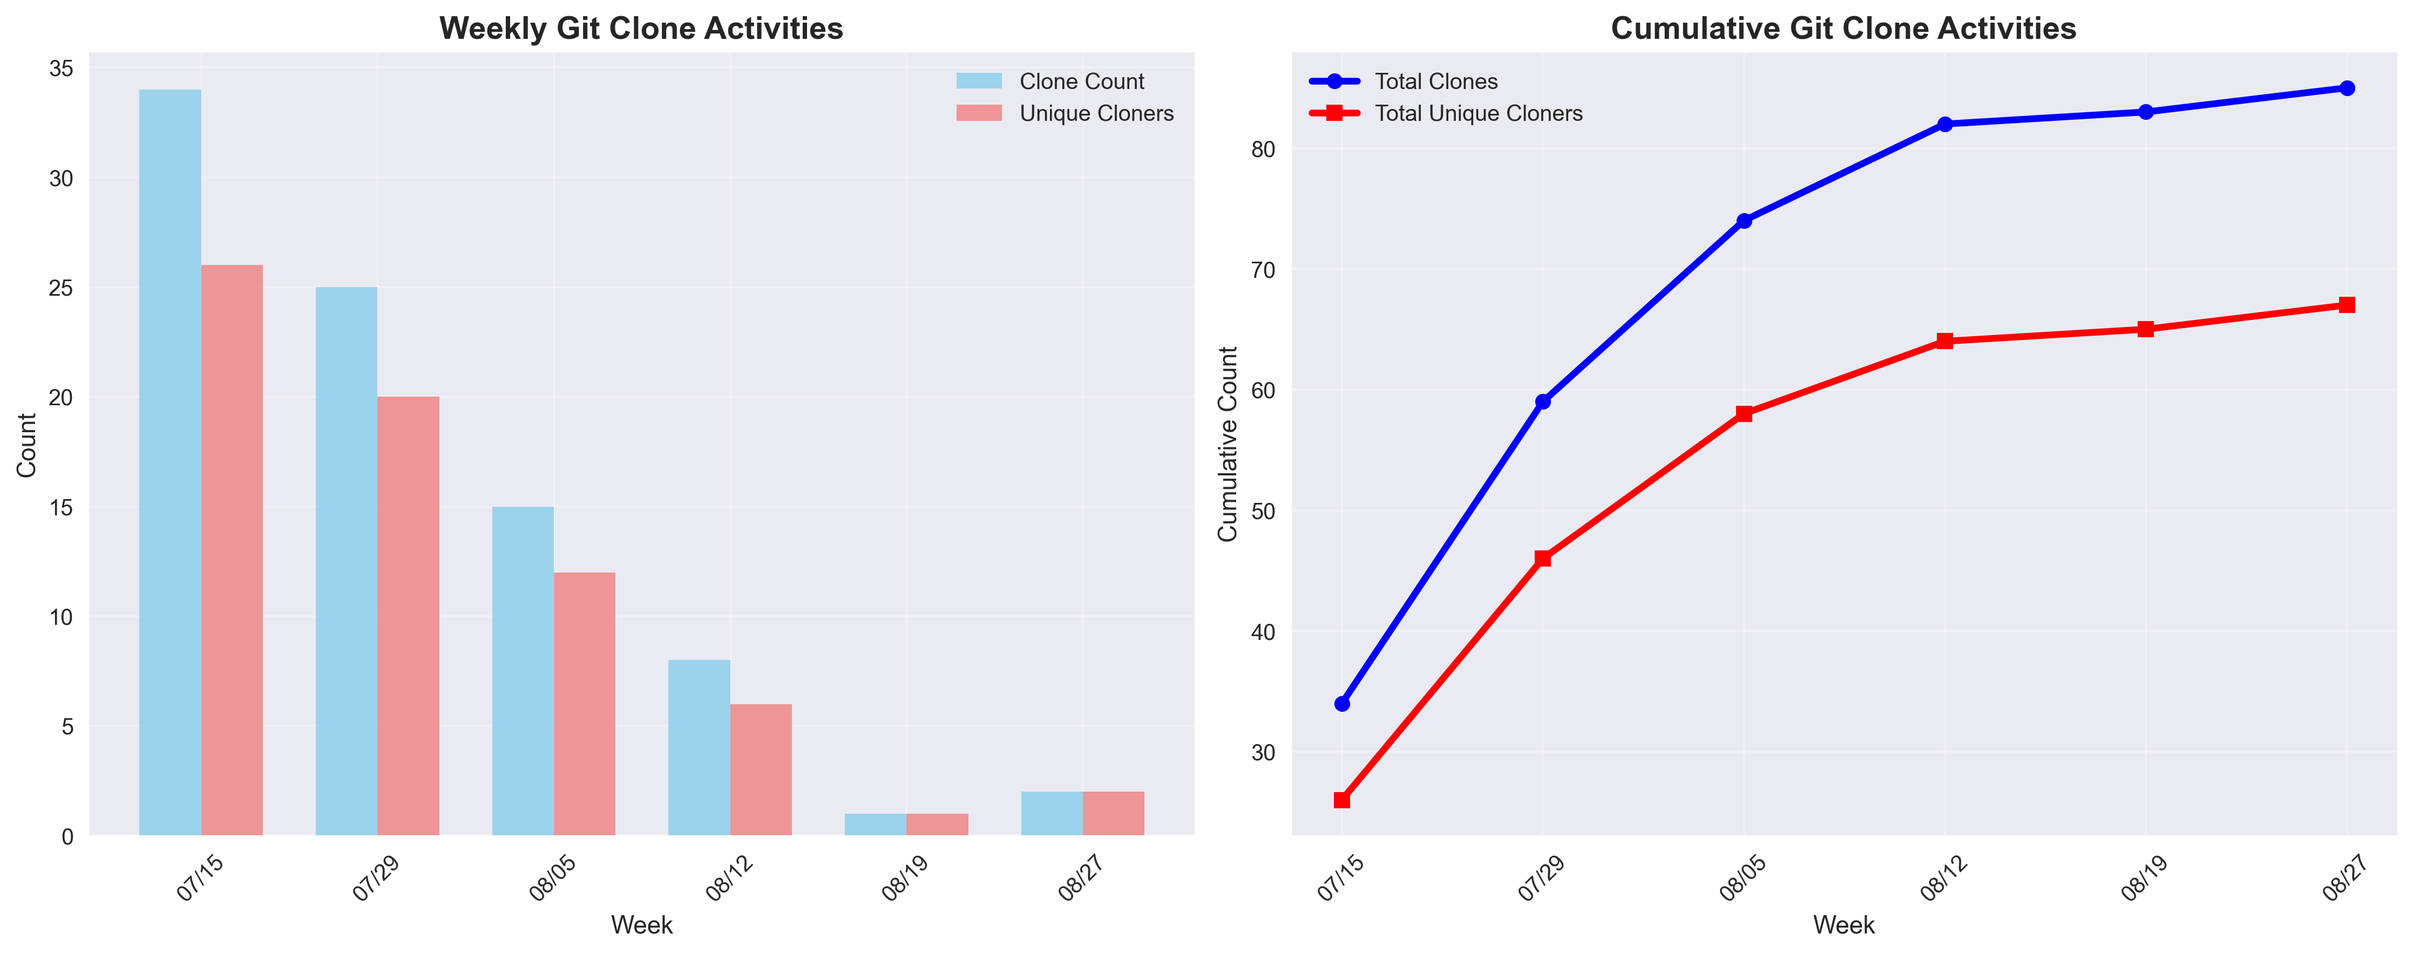
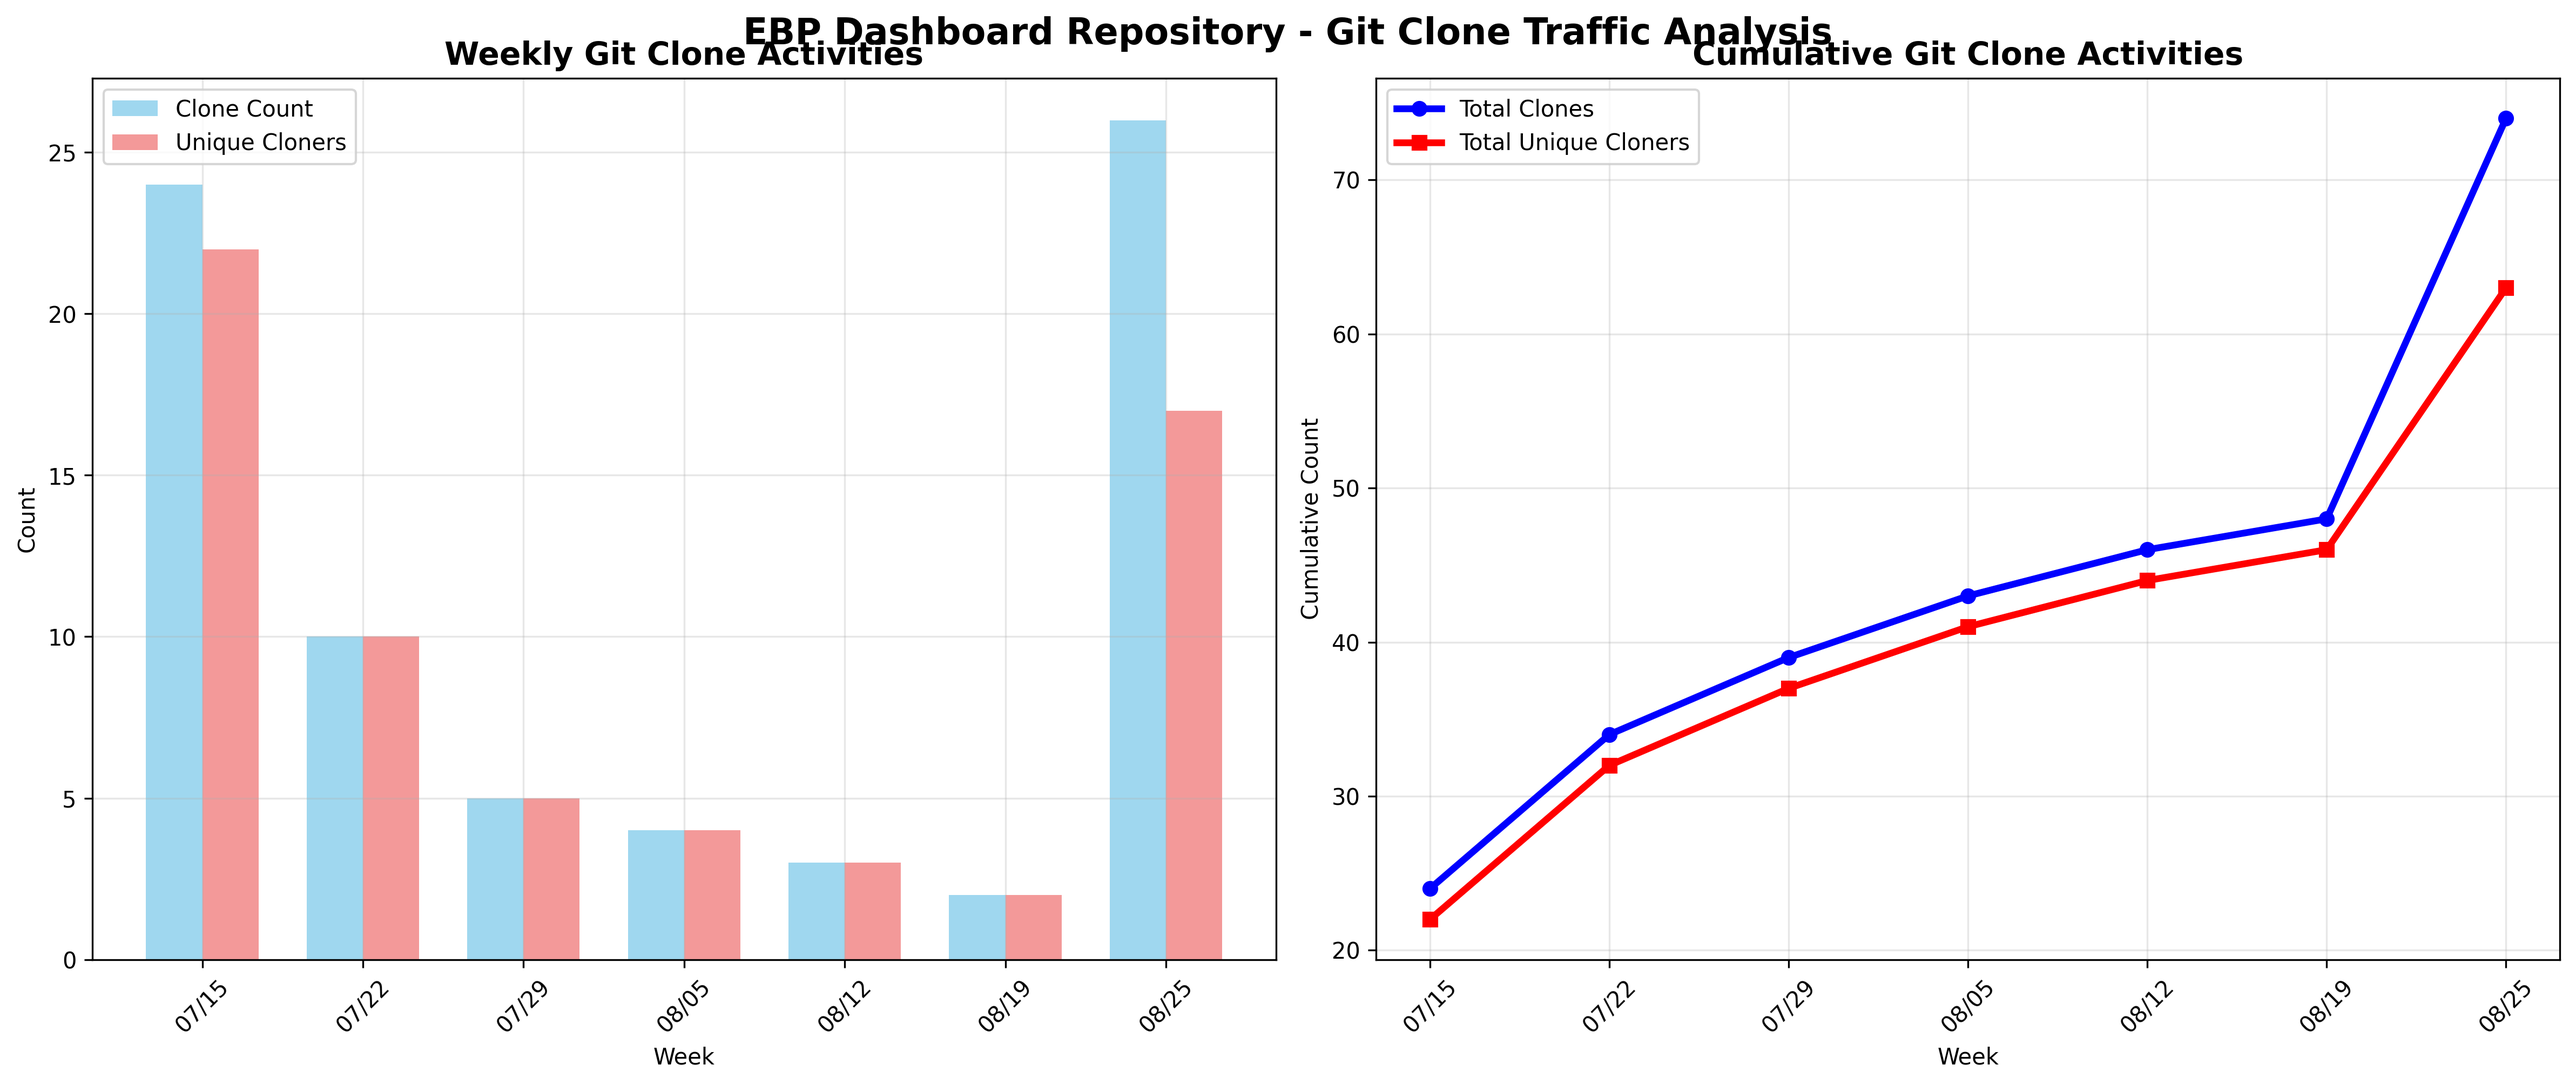
Fix traffic data collection timing and update data accuracy
- Change automation from Sunday 2AM to Monday 2AM UTC to capture complete week
- Correct Aug 25-31 data: 51 clones, 29 unique cloners (was missing late Sunday activity)
- Update documentation to reflect new Monday schedule
- Ensures complete weekly data capture going forward

diff --git a/traffic-data/analyze_traffic_data.py b/traffic-data/analyze_traffic_data.py
@@ -53,13 +53,13 @@ def create_comprehensive_analysis(df):
     fig = plt.figure(figsize=(16, 12))
     
     # Main title
-    fig.suptitle('EBP Dashboard Repository - Clone Traffic Analysis\n(Historical + Automated Data)', 
-                 fontsize=16, fontweight='bold', y=0.95)
+    # fig.suptitle('EBP Dashboard Repository - Clone Traffic Analysis\n(Historical + Automated Data)', 
+    #              fontsize=16, fontweight='bold', y=0.95)
     
     # 1. Weekly Clone Counts (Actual)
     ax1 = plt.subplot(2, 2, 1)
     bars1 = ax1.bar(df['week_label'], df['clones_count'], 
-                    color='skyblue', alpha=0.8, edgecolor='navy', linewidth=0.5)
+                    color='skyblue', alpha=0.8, edqivagecolor='navy', linewidth=0.5)
     ax1.set_title('Weekly Clone Count (Actual)', fontweight='bold', fontsize=12)
     ax1.set_xlabel('Week (Month/Day)')
     ax1.set_ylabel('Number of Clones')
@@ -145,8 +145,8 @@ def create_trend_analysis(df):
     fig, (ax1, ax2) = plt.subplots(1, 2, figsize=(16, 7))
     
     # Add main title
-    fig.suptitle('EBP Dashboard Repository - Git Clone Traffic Analysis', 
-                 fontsize=16, fontweight='bold', y=0.95)
+    # fig.suptitle('EBP Dashboard Repository - Git Clone Traffic Analysis', 
+    #              fontsize=16, fontweight='bold', y=0.95)
     
     # Combined weekly view
     x_pos = np.arange(len(df))

diff --git a/traffic-data/README.md b/traffic-data/README.md
@@ -18,6 +18,8 @@ This directory contains the complete traffic monitoring system for the EBP Dashb
 - `traffic-YYYY-WXX.json`: Detailed weekly data with daily breakdowns
 - `README.md`: This documentation file
 
+### to get the latest data locally, run git pull origin ebp-main in the traffic-data directory
+
 ## 🚀 Quick Start
 
 ### Run Analysis (from traffic-data directory):
@@ -38,7 +40,7 @@ python add_historical_traffic.py
 
 ## 📊 Data Collection
 
-- **Frequency**: Automated weekly on Sundays at 2:00 AM UTC
+- **Frequency**: Automated weekly on Mondays at 2:00 AM UTC
 - **Source**: GitHub Traffic API via GitHub Actions workflow
 - **Historical**: Includes manual snapshots from July 2024 + interpolated data
 - **Coverage**: Each collection captures 14-day rolling window
